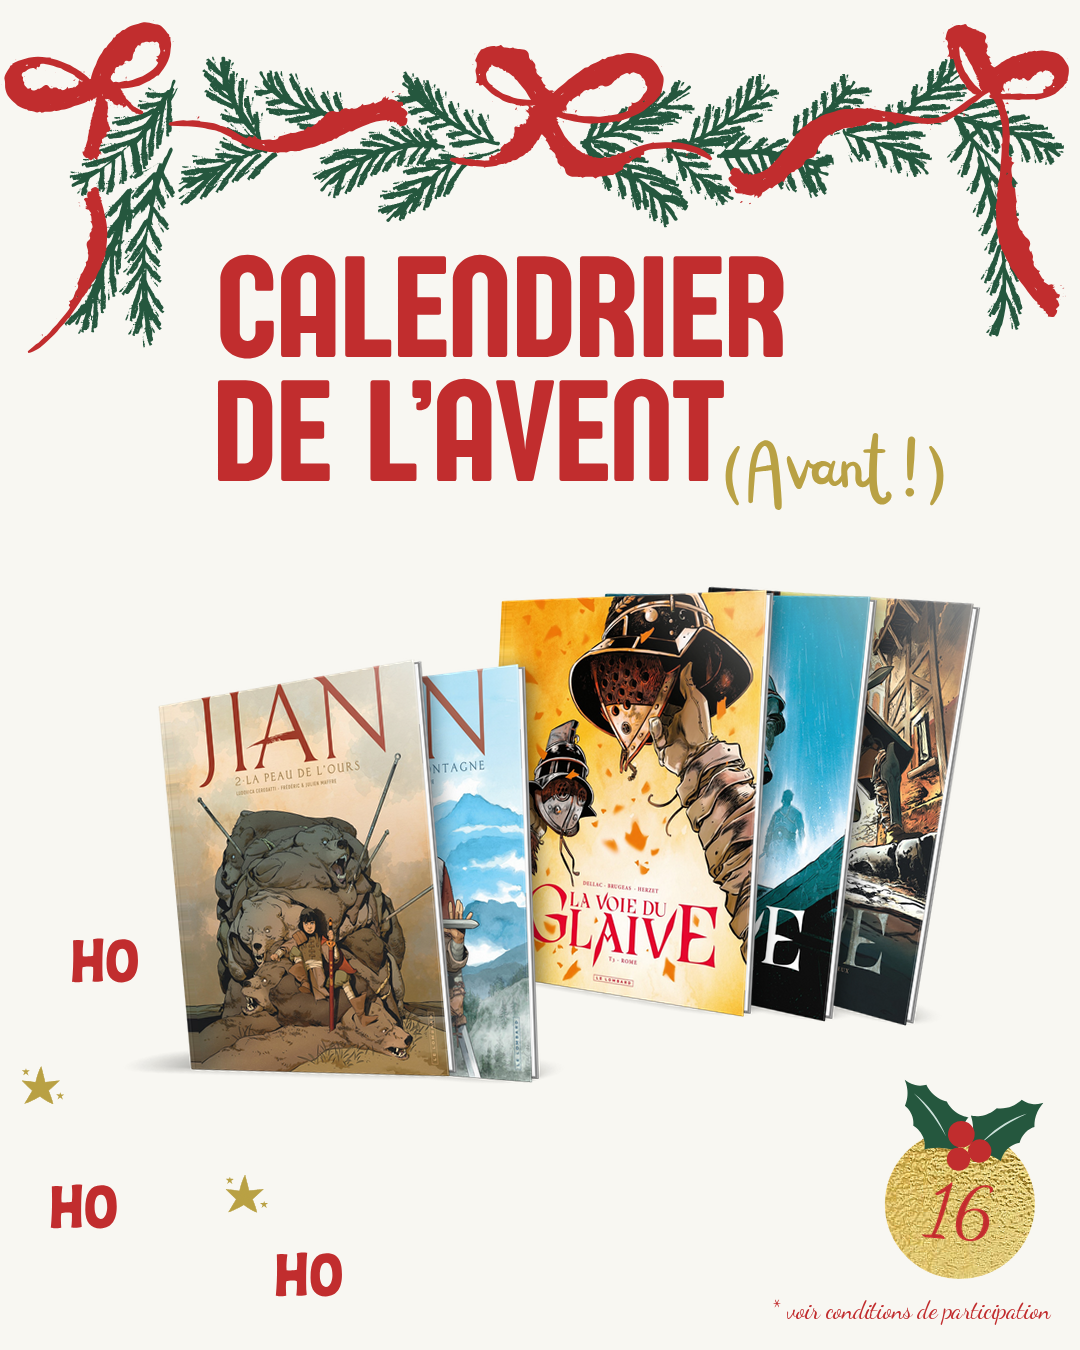
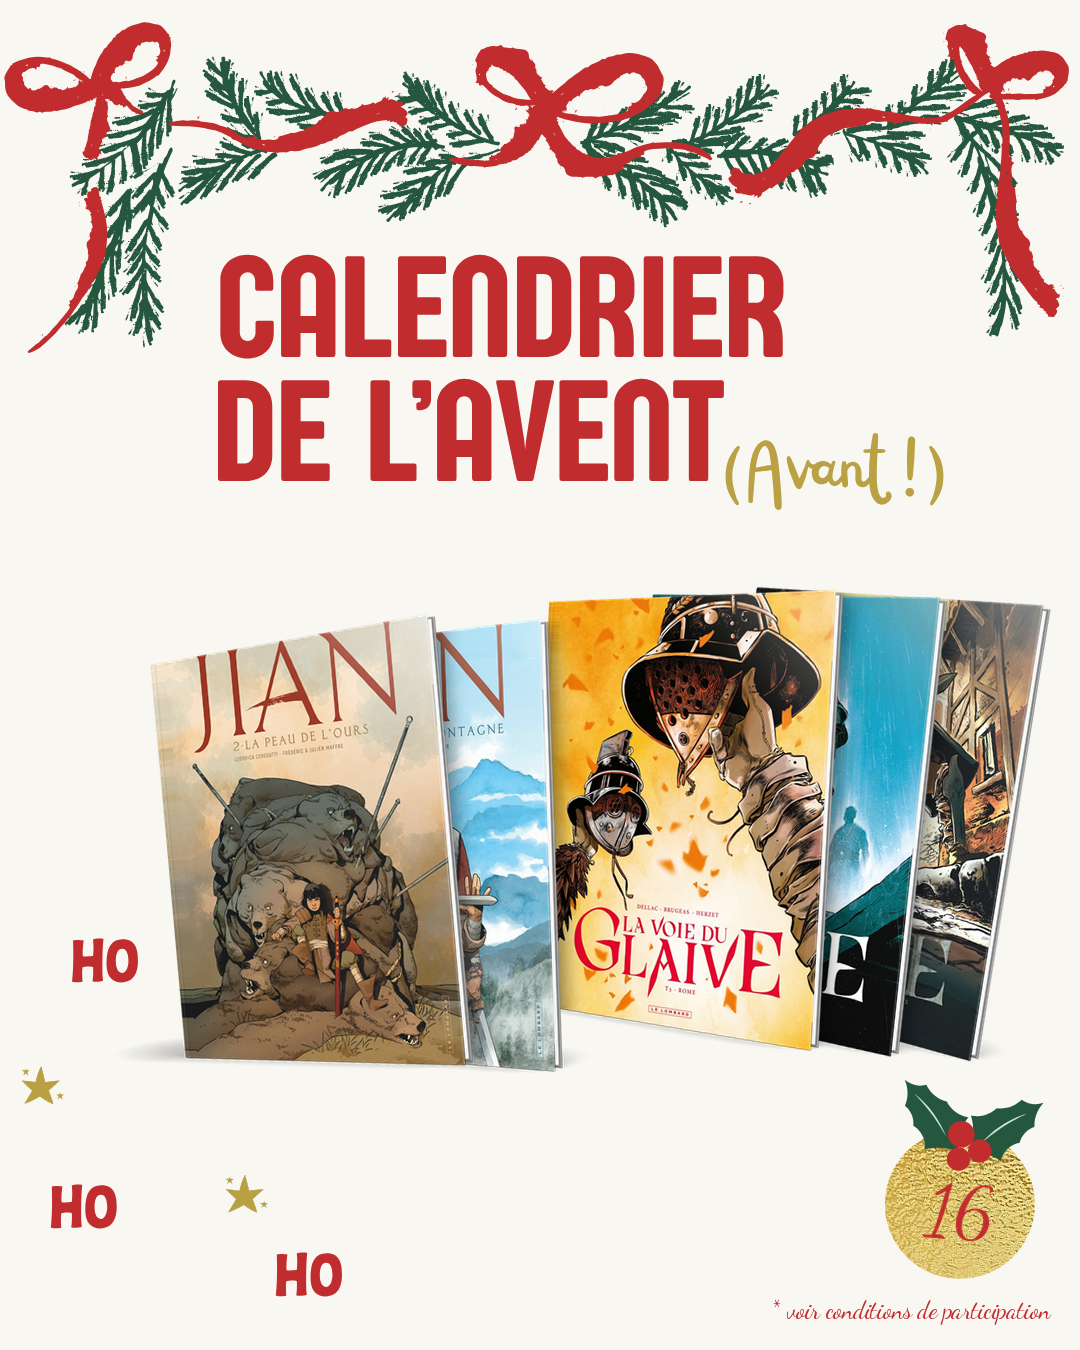
Calendrier Avant : jour 16, décalage vertical réduit, LVG plus à droite, albums plus grands
Claude-Session: https://claude.ai/code/session_01QaZk7QZvzTVY1x8op41wve

Changed region(s): [[0.1222, 0.4356, 0.9778, 0.8089]]

diff --git a/calendrier-avent-2026/planning.py b/calendrier-avent-2026/planning.py
@@ -62,8 +62,8 @@ COMPOSITIONS = {
     'jour16': {
         'books': [('9782808217071', -5, 1.0, 5), ('9782808211413', -2, 1.0, 4),
                   ('9782808215008', 3, 1.02, 3), ('9782808212144', 6, 1.02, 2), ('9782808211192', 9, 1.02, 1)],
-        'dy': [45, 45, -35, -35, -35],       # Jian plus bas, La voie du glaive plus haut
-        'steps': [0.35, 0.85, 0.35, 0.35], 'h': 425, 'y': 620, 'cx': 560,
+        'dy': [20, 20, -15, -15, -15],       # Jian plus bas, La voie du glaive plus haut
+        'steps': [0.35, 0.95, 0.32, 0.32], 'h': 460, 'y': 600, 'cx': 590,
     },
 }
 
